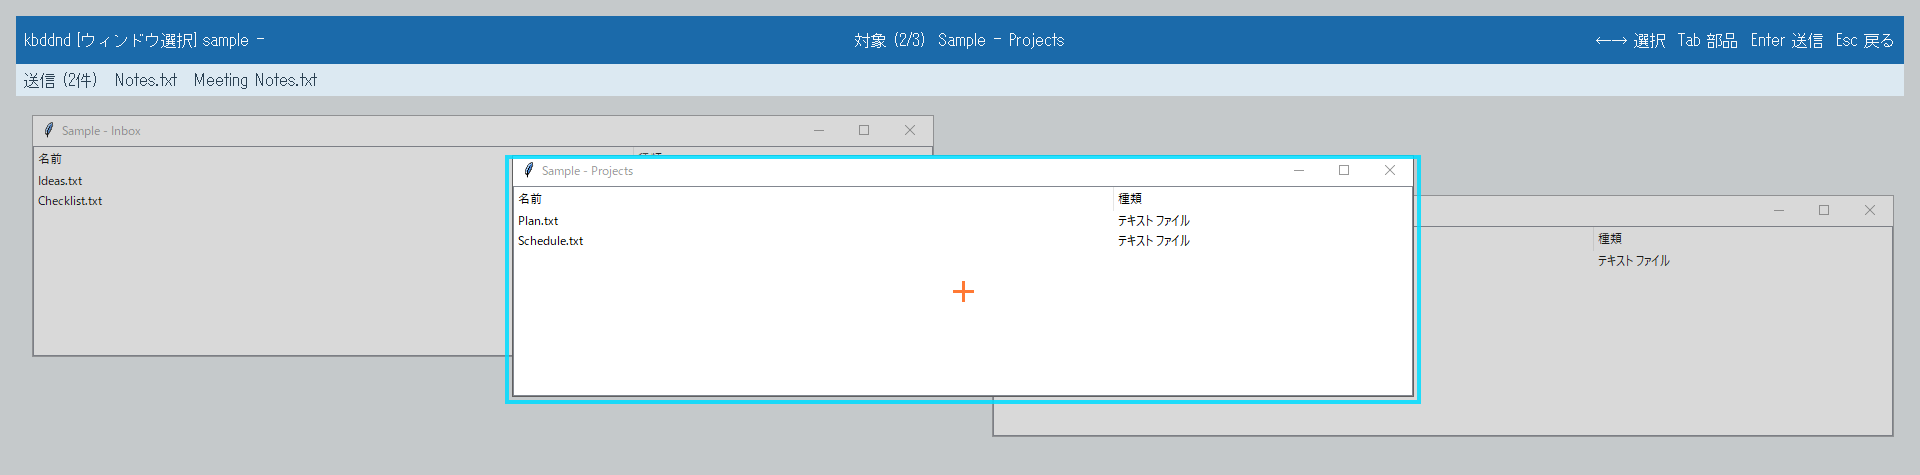
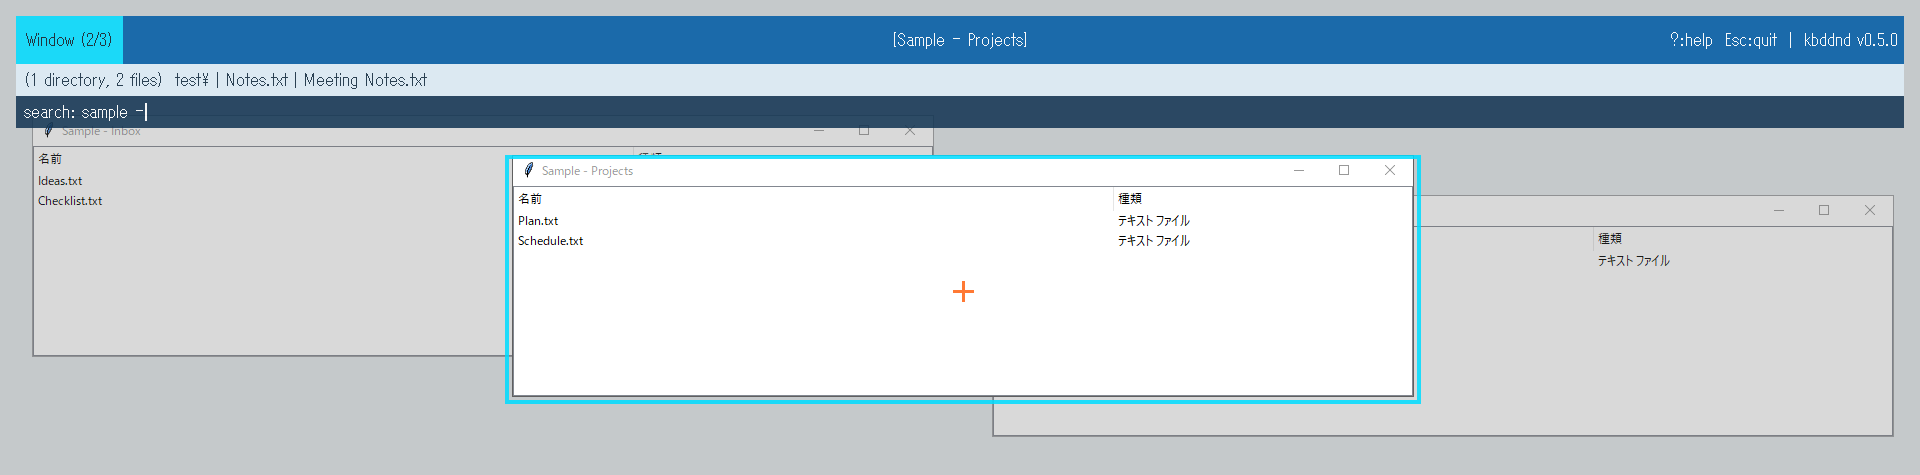
Release kbddnd 0.5.0 with English overlay and keyboard navigation updates

Changed region(s): [[0.0, 0.0295, 1.0, 0.2947], [0.8438, 0.0589, 1.0, 0.1179], [0.4375, 0.0589, 0.5312, 0.1179]]

diff --git a/kbddnd.cpp b/kbddnd.cpp
@@ -30,6 +30,8 @@
 namespace {
 using Microsoft::WRL::ComPtr;
 constexpr COLORREF transparentColor = RGB(255, 0, 255);
+constexpr wchar_t version[] = L"0.5.0";
+bool helpVisible = false;
 constexpr wchar_t title[] = L"kbddnd";
 std::vector<std::wstring> paths;
 std::wstring fileSummary;
@@ -348,7 +350,8 @@ void paint(HWND w) {
     HBRUSH fill = static_cast<HBRUSH>(GetStockObject(DC_BRUSH));
     FillRect(dc, &canvas, fill);
     RECT r{};
-    std::wstring label = L"対象 (0/0)";
+    std::wstring label = L"No matching windows";
+    std::wstring badge = L"Window (" + std::to_wstring(targets.empty() ? 0 : selected + 1) + L"/" + std::to_wstring(targets.size()) + L")";
     if (!targets.empty() && GetWindowRect(targets[selected], &r)) {
         MapWindowPoints(nullptr, w, reinterpret_cast<POINT*>(&r), 2);
         HBRUSH brush = CreateSolidBrush(RGB(0, 220, 255));
@@ -357,7 +360,7 @@ void paint(HWND w) {
             InflateRect(&r, -1, -1);
         }
         DeleteObject(brush);
-        label = L"対象 (" + std::to_wstring(selected + 1) + L"/" + std::to_wstring(targets.size()) + L")  " + windowName(targets[selected]);
+        label = L"[" + windowName(targets[selected]) + L"]";
     }
     if (!targets.empty()) {
         HWND root = targets[selected];
@@ -373,13 +376,13 @@ void paint(HWND w) {
                 InflateRect(&bounds, -1, -1);
             }
             DeleteObject(brush);
-            label = L"部品 (" + std::to_wstring(partIndex + 1) + L"/" + std::to_wstring(parts.size()) + L")";
-            if (hasPosition)
-                label += L" (" + std::to_wstring(center.x) + L", " + std::to_wstring(center.y) + L")";
+            badge = L"Part (" + std::to_wstring(partIndex + 1) + L"/" + std::to_wstring(parts.size()) + L")";
             auto cls = windowClass(part);
             auto caption = windowCaption(part);
-            if (!cls.empty()) label += L" [" + cls + L"]";
-            if (!caption.empty() && caption != cls) label += L" " + caption;
+            label = L"[" + (caption.empty() ? cls : caption) + L"]";
+            if (!caption.empty() && caption != cls) label += L"  " + cls;
+            if (hasPosition)
+                label += L"  (" + std::to_wstring(center.x) + L", " + std::to_wstring(center.y) + L")";
         }
         POINT at{};
         if (aim(root, at)) {
@@ -391,20 +394,27 @@ void paint(HWND w) {
             FillRect(dc, &v, brush);
             DeleteObject(brush);
         }
-        if (mode == Mode::position)
-            label += L"  位置 (" + std::to_wstring(manual.x) + L", " + std::to_wstring(manual.y) + L")";
+        if (mode == Mode::position) {
+            badge = L"Position";
+            label += L"  (" + std::to_wstring(manual.x) + L", " + std::to_wstring(manual.y) + L")";
+        }
     }
-    const wchar_t* modeName = L"ウィンドウ選択";
-    const wchar_t* keys = L"←→ 選択  Tab 部品  Enter 送信  Esc 戻る";
-    if (mode == Mode::part) {
-        modeName = L"部品選択";
-        keys = L"矢印 選択  Tab 位置  Enter 送信  Esc 戻る";
-    } else if (mode == Mode::position) {
-        modeName = L"位置選択";
-        keys = L"矢印 移動  Ctrl 高速  Shift 1px  Enter 送信  Esc 戻る";
+    bool searching = mode == Mode::window && !searchText.empty();
+    std::wstring keys = mode == Mode::window ? L"?:help  Esc:quit" : L"?:help  Esc:back";
+    keys += std::wstring(L"  |  kbddnd v") + version;
+    std::wstring guide;
+    if (helpVisible) {
+        if (mode == Mode::window) {
+            guide = L"Keys: Left/Right select window    Tab select part    Enter drop    ";
+            if (searching) guide += L"Ctrl+U/K clear search    ";
+            guide += L"Esc quit";
+        } else if (mode == Mode::part) {
+            guide = L"Keys: Arrow keys select part    Tab select position    Enter drop    Shift+Tab/Esc back";
+        } else {
+            guide = L"Keys: Arrow keys move    Ctrl fast    Shift 1px    Enter drop    Shift+Tab/Esc back";
+        }
     }
-    std::wstring heading = std::wstring(title) + L" [" + modeName + L"] " + searchText;
-    SetWindowTextW(w, (heading + L" — " + label).c_str());
+    SetWindowTextW(w, (badge + L" — " + label).c_str());
     MONITORINFO mi{sizeof(MONITORINFO), {}, {}, 0};
     GetMonitorInfoW(MonitorFromWindow(targets.empty() ? nullptr : targets[selected],
                                       MONITOR_DEFAULTTOPRIMARY), &mi);
@@ -412,7 +422,7 @@ void paint(HWND w) {
     MapWindowPoints(nullptr, w, reinterpret_cast<POINT*>(&panel), 2);
     InflateRect(&panel, -16, -16);
     LONG bottom = panel.bottom;
-    panel.bottom = panel.top + 48 + 32 + (notice.empty() ? 0 : 32);
+    panel.bottom = panel.top + 48 + 32 + (searching ? 32 : 0) + (helpVisible || !notice.empty() ? 32 : 0);
     POINT marker{};
     if (!targets.empty() && aim(targets[selected], marker) && ScreenToClient(w, &marker) && PtInRect(&panel, marker))
         OffsetRect(&panel, 0, bottom - panel.bottom);
@@ -423,19 +433,24 @@ void paint(HWND w) {
     SetTextColor(dc, RGB(255, 255, 255));
     SetBkMode(dc, TRANSPARENT);
     const UINT flags = DT_VCENTER | DT_SINGLELINE | DT_END_ELLIPSIS | DT_NOPREFIX;
-    InflateRect(&bar, -8, 0);
+    SIZE badgeSize{}, keysSize{};
+    GetTextExtentPoint32W(dc, badge.c_str(), static_cast<int>(badge.size()), &badgeSize);
+    GetTextExtentPoint32W(dc, keys.c_str(), static_cast<int>(keys.size()), &keysSize);
     LONG width = bar.right - bar.left;
-    RECT keySize{};
-    DrawTextW(dc, keys, -1, &keySize, DT_CALCRECT | DT_SINGLELINE | DT_NOPREFIX);
-    LONG sideWidth = std::clamp(keySize.right + 8, width / 4, width * 3 / 8);
     RECT left = bar, center = bar, right = bar;
-    left.right = bar.left + sideWidth;
-    right.left = bar.right - sideWidth;
-    center.left = left.right + 4;
-    center.right = right.left - 4;
-    DrawTextW(dc, heading.c_str(), -1, &left, flags | DT_LEFT);
+    left.right = left.left + std::min(width / 3, badgeSize.cx + 20);
+    right.left = right.right - std::min(width / 2, keysSize.cx + 16);
+    LONG inset = std::max(left.right - bar.left, bar.right - right.left);
+    center.left += std::min(inset, width / 3);
+    center.right = right.left;
+    SetDCBrushColor(dc, RGB(0, 220, 255));
+    FillRect(dc, &left, fill);
+    SetTextColor(dc, RGB(8, 30, 42));
+    DrawTextW(dc, badge.c_str(), -1, &left, flags | DT_CENTER);
+    SetTextColor(dc, RGB(255, 255, 255));
     DrawTextW(dc, label.c_str(), -1, &center, flags | DT_CENTER);
-    DrawTextW(dc, keys, -1, &right, flags | DT_RIGHT);
+    InflateRect(&right, -6, 0);
+    DrawTextW(dc, keys.c_str(), -1, &right, flags | DT_RIGHT);
     RECT files = panel;
     files.top = bar.bottom;
     files.bottom = files.top + 32;
@@ -444,14 +459,35 @@ void paint(HWND w) {
     InflateRect(&files, -8, 0);
     SetTextColor(dc, RGB(18, 43, 64));
     DrawTextW(dc, fileSummary.c_str(), -1, &files, flags | DT_LEFT);
-    if (!notice.empty()) {
-        RECT message = panel;
-        message.top = files.bottom;
-        SetDCBrushColor(dc, RGB(255, 246, 190));
-        FillRect(dc, &message, fill);
-        InflateRect(&message, -8, 0);
+    RECT row = panel;
+    row.top = files.bottom;
+    if (searching) {
+        row.bottom = row.top + 32;
+        SetDCBrushColor(dc, RGB(18, 52, 82));
+        FillRect(dc, &row, fill);
+        RECT query = row;
+        InflateRect(&query, -8, 0);
+        SetTextColor(dc, RGB(255, 255, 255));
+        DrawTextW(dc, L"search: ", -1, &query, DT_LEFT | DT_SINGLELINE | DT_VCENTER);
+        SIZE prefix{}, term{};
+        GetTextExtentPoint32W(dc, L"search: ", 8, &prefix);
+        GetTextExtentPoint32W(dc, searchText.c_str(), static_cast<int>(searchText.size()), &term);
+        query.left += prefix.cx;
+        query.right -= 2;
+        UINT align = term.cx > query.right - query.left ? DT_RIGHT : DT_LEFT;
+        DrawTextW(dc, searchText.c_str(), -1, &query, DT_NOPREFIX | DT_SINGLELINE | DT_VCENTER | align);
+        LONG x = std::min(query.left + term.cx, query.right);
+        RECT caret{x, (query.top + query.bottom - term.cy) / 2, x + 2, (query.top + query.bottom + term.cy) / 2};
+        FillRect(dc, &caret, static_cast<HBRUSH>(GetStockObject(WHITE_BRUSH)));
+        row.top = row.bottom;
+    }
+    if (helpVisible || !notice.empty()) {
+        row.bottom = row.top + 32;
+        SetDCBrushColor(dc, helpVisible ? RGB(255, 255, 255) : RGB(255, 246, 190));
+        FillRect(dc, &row, fill);
+        InflateRect(&row, -8, 0);
         SetTextColor(dc, RGB(0, 0, 0));
-        DrawTextW(dc, notice.c_str(), -1, &message, flags | DT_LEFT);
+        DrawTextW(dc, helpVisible ? guide.c_str() : notice.c_str(), -1, &row, flags | DT_LEFT);
     }
     EndPaint(w, &ps);
 }
@@ -500,19 +536,19 @@ public:
 std::wstring deliver(HWND target, POINT center, HWND expectedPart) {
     RECT bounds = clientOnScreen(target);
     if (!candidate(target) || !PtInRect(&bounds, center))
-        return L"送信位置が変わりました。選び直してください。";
+        return L"Drop position changed. Select it again.";
     HWND hit = WindowFromPoint(center);
     if (GetAncestor(hit, GA_ROOT) != target) {
         SetForegroundWindow(target);
         SetWindowPos(target, HWND_TOP, 0, 0, 0, 0, SWP_NOMOVE | SWP_NOSIZE);
         if (!candidate(target) || !aim(target, center))
-            return L"送信位置が変わりました。選び直してください。";
+            return L"Drop position changed. Select it again.";
         hit = WindowFromPoint(center);
         if (GetAncestor(hit, GA_ROOT) != target)
-            return L"対象を前面に表示しても送信位置を確認できません。";
+            return L"Drop position is still covered. Select another position.";
     }
     if (expectedPart && hit != expectedPart && !IsChild(expectedPart, hit))
-        return L"選んだ部品が隠れています。位置を選び直してください。";
+        return L"Selected part is covered. Select another position.";
 
     for (HWND w = hit; w; w = GetAncestor(w, GA_PARENT)) {
         if (oleHint(w)) break;
@@ -523,7 +559,7 @@ std::wstring deliver(HWND target, POINT center, HWND expectedPart) {
             auto* header = static_cast<DROPFILES*>(GlobalLock(block));
             if (!header) {
                 GlobalFree(block);
-                return L"ファイル一覧のメモリを確保できません。";
+                return L"Not enough memory for the file list.";
             }
             header->pFiles = sizeof(DROPFILES);
             header->fWide = TRUE;
@@ -538,7 +574,7 @@ std::wstring deliver(HWND target, POINT center, HWND expectedPart) {
             if (PostMessageW(w, WM_DROPFILES, reinterpret_cast<WPARAM>(block), 0))
                 return {}; // Windows marshals the posted HDROP. The receiver calls DragFinish.
             GlobalFree(block);
-            return L"対象ウィンドウに送信できませんでした。";
+            return L"Could not send the selection to the target window.";
         }
         if (w == target) break;
     }
@@ -557,10 +593,10 @@ std::wstring deliver(HWND target, POINT center, HWND expectedPart) {
     for (auto item : items) CoTaskMemFree(const_cast<PIDLIST_ABSOLUTE>(item));
     ComPtr<IDataObject> data;
     if (SUCCEEDED(hr)) hr = array->BindToHandler(nullptr, BHID_DataObject, IID_PPV_ARGS(&data));
-    if (FAILED(hr)) return L"ファイルのドロップデータを作成できません。";
+    if (FAILED(hr)) return L"Could not prepare the selection for dropping.";
     POINT saved{};
     if (!GetCursorPos(&saved) || !SetCursorPos(center.x, center.y))
-        return L"指定位置にポインターを移動できません。";
+        return L"Could not move the pointer to the drop position.";
     ComPtr<IDropSource> source;
     source.Attach(new DropSource(target, center));
     DWORD effect = 0;
@@ -589,7 +625,7 @@ std::wstring deliver(HWND target, POINT center, HWND expectedPart) {
     if (GetCursorPos(&now) && now.x == center.x && now.y == center.y)
         SetCursorPos(saved.x, saved.y);
     if (hr == DRAGDROP_S_DROP && (effect & DROPEFFECT_COPY)) return {};
-    return L"選択した位置でファイルが受け付けられなかったか、操作が中断されました。";
+    return L"Drop declined or canceled. Select another position or try again.";
 }
 
 // Explorer can activate the taskbar during a drag or just after OLE unwinds.
@@ -657,8 +693,17 @@ LRESULT CALLBACK procedure(HWND w, UINT msg, WPARAM key, LPARAM lp) {
         enterPressedHere = false;
         return 0;
     case WM_CHAR:
-        if (dropping || mode != Mode::window) return 0;
-        if (key == 0x15) searchText.clear(); // Ctrl+U
+        if (dropping) return 0;
+        if (key == L'?') {
+            if (!(lp & (1L << 30))) {
+                notice.clear();
+                helpVisible = true;
+                InvalidateRect(w, nullptr, FALSE);
+            }
+            return 0;
+        }
+        if (helpVisible || mode != Mode::window) return 0;
+        if (key == 0x15 || key == 0x0b) searchText.clear(); // Ctrl+U or Ctrl+K
         else if (key >= L' ' && key != 0x7f) searchText.push_back(static_cast<wchar_t>(key));
         else return 0;
         windowSearch.compile();
@@ -682,10 +727,9 @@ LRESULT CALLBACK procedure(HWND w, UINT msg, WPARAM key, LPARAM lp) {
         if (key == VK_RETURN && !(lp & (1L << 30))) enterPressedHere = true;
         if (key == VK_RETURN) return 0;
         if ((key == VK_ESCAPE || key == VK_TAB) && (lp & (1L << 30))) return 0;
-        if (key == VK_ESCAPE) {
+        if (key == VK_ESCAPE || (key == VK_TAB && GetKeyState(VK_SHIFT) < 0)) {
             if (mode == Mode::window) {
-                if (searchText.empty()) DestroyWindow(w);
-                else SendMessageW(w, WM_CHAR, 0x15, 0);
+                if (key == VK_ESCAPE) DestroyWindow(w);
                 return 0;
             }
             mode = mode == Mode::position && !parts.empty() ? Mode::part : Mode::window;
@@ -697,7 +741,7 @@ LRESULT CALLBACK procedure(HWND w, UINT msg, WPARAM key, LPARAM lp) {
                 GetClientRect(root, &r);
                 manual = midpoint(r);
                 mode = Mode::position;
-                notice = L"部品を検出できません。位置を指定してください。";
+                notice = L"No parts found. Use arrow keys to position the drop.";
             } else mode = Mode::part;
         } else if (key == VK_TAB && mode == Mode::part) {
             HWND root = targets[selected];
@@ -745,9 +789,9 @@ LRESULT CALLBACK procedure(HWND w, UINT msg, WPARAM key, LPARAM lp) {
             // Zero alpha makes a layered window pass hit testing through while
             // keeping its keyboard focus. Hiding it hands activation to another app.
             std::wstring error;
-            if (!valid) error = L"対象の位置が変わりました。選び直してください。";
+            if (!valid) error = L"Target position changed. Select it again.";
             else if (!SetLayeredWindowAttributes(w, 0, 0, LWA_ALPHA))
-                error = L"オーバーレイを透明にできませんでした。";
+                error = L"Could not hide the overlay for the drop.";
             else {
                 // Taskbar hover can activate the app under an icon before OLE
                 // reports rejection. Keep the foreground during this keyboard drag.
@@ -782,7 +826,7 @@ LRESULT CALLBACK procedure(HWND w, UINT msg, WPARAM key, LPARAM lp) {
 
 int wmain(int argc, wchar_t* argv[]) {
     if (argc < 2) {
-        return std::puts("kbddnd 0.4.0\nUsage: kbddnd.exe FILE [FILE ...]") == EOF ? 1 : 0;
+        return std::wprintf(L"kbddnd %ls\nUsage: kbddnd.exe PATH [PATH ...]\n", version) < 0 ? 1 : 0;
     }
     FreeConsole();
     HINSTANCE instance = GetModuleHandleW(nullptr);
@@ -792,7 +836,7 @@ int wmain(int argc, wchar_t* argv[]) {
         std::error_code ec;
         auto path = std::filesystem::absolute(argv[i], ec);
         if (ec || !std::filesystem::exists(path, ec)) {
-            error = std::wstring(L"ファイルを確認できません。\n") + argv[i];
+            error = std::wstring(L"Path unavailable.\n") + argv[i];
             break;
         }
         paths.push_back(path.wstring());
@@ -801,12 +845,26 @@ int wmain(int argc, wchar_t* argv[]) {
         MessageBoxW(nullptr, error.c_str(), title, MB_ICONINFORMATION);
         return 1;
     }
-    fileSummary = L"送信 (" + std::to_wstring(paths.size()) + L"件)";
+    std::wstring items;
+    size_t directories = 0;
     for (const auto& value : paths) {
         auto path = std::filesystem::path(value).lexically_normal();
         if (!path.has_filename() && path != path.root_path()) path = path.parent_path();
-        fileSummary += L"　" + (path.has_filename() ? path.filename() : path).wstring();
+        auto name = (path.has_filename() ? path.filename() : path).wstring();
+        std::error_code ec;
+        if (std::filesystem::is_directory(value, ec)) {
+            ++directories;
+            if (name.back() != L'\\') name += L'\\';
+        }
+        if (!items.empty()) items += L" | ";
+        items += name;
     }
+    size_t files = paths.size() - directories;
+    fileSummary = L"(";
+    if (directories) fileSummary += std::to_wstring(directories) + (directories == 1 ? L" directory" : L" directories");
+    if (directories && files) fileSummary += L", ";
+    if (files) fileSummary += std::to_wstring(files) + (files == 1 ? L" file" : L" files");
+    fileSummary += L")  " + items;
     if (FAILED(OleInitialize(nullptr))) return 1;
     WNDCLASSW cls{};
     cls.hInstance = instance;
@@ -829,8 +887,24 @@ int wmain(int argc, wchar_t* argv[]) {
         SetTimer(overlay, previewTimer, 150, nullptr);
         windowSearch.initialize();
         MSG msg{};
+        WPARAM dismissedWith = 0;
         BOOL status;
         while ((status = GetMessageW(&msg, nullptr, 0, 0)) > 0) {
+            // Consume the dismissing press before TranslateMessage can enqueue a character.
+            if (msg.hwnd == overlay && (msg.message == WM_KEYDOWN || msg.message == WM_SYSKEYDOWN)) {
+                const bool repeat = (msg.lParam & (1L << 30)) != 0;
+                if (helpVisible || (repeat && msg.wParam == dismissedWith)) {
+                    if (!repeat) {
+                        helpVisible = false;
+                        dismissedWith = msg.wParam;
+                        enterPressedHere = false;
+                        InvalidateRect(overlay, nullptr, FALSE);
+                    }
+                    continue;
+                }
+            }
+            if ((msg.message == WM_KEYUP || msg.message == WM_SYSKEYUP) && msg.wParam == dismissedWith)
+                dismissedWith = 0;
             TranslateMessage(&msg);
             DispatchMessageW(&msg);
         }
